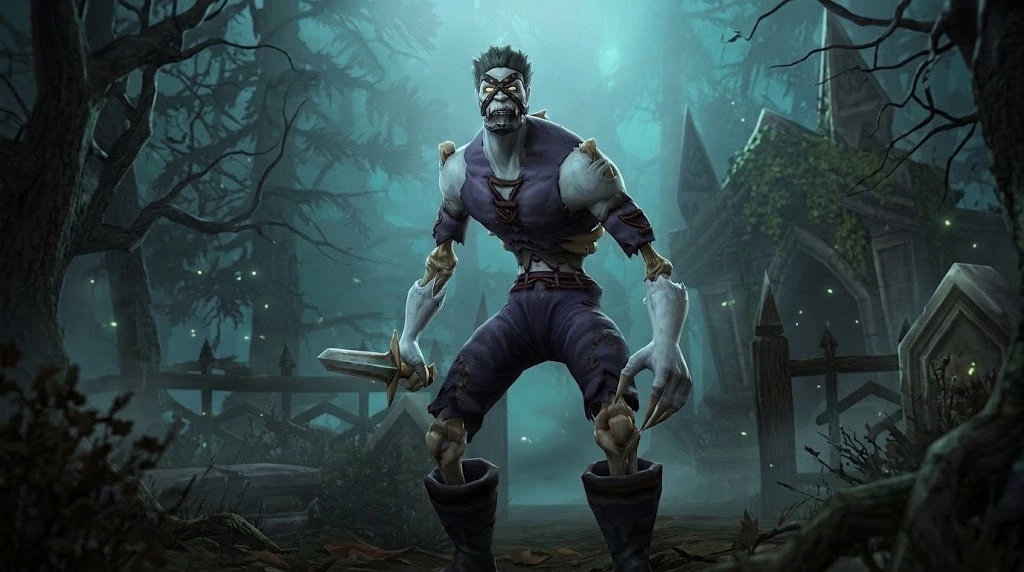
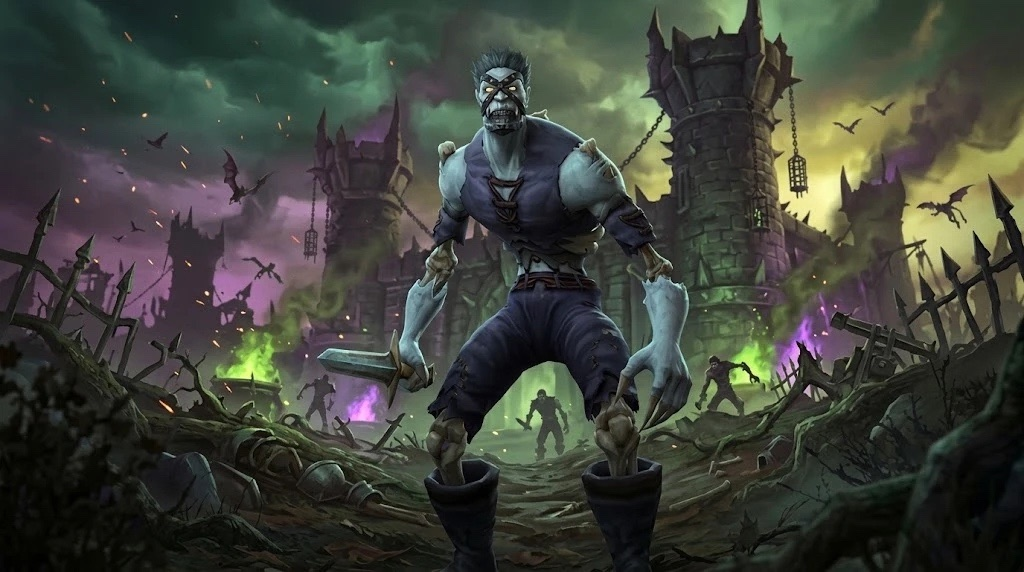
Art set kompletan: Pero, nove slike Nikse i Žuge; art u heroju, na karticama, avatarima i og slici
Pero: portret, široki kadar i fokus (nema više zamjenskog grba). Niksa i Žuga iz novih art slika.
Hero: iza naslova se polako izmjenjuju tamni, zamućeni široki kadrovi (<lik>-hero.jpg, ~35 KB).
Ekipa: hover na kartici otvori široki kadar uz parallax (učita se tek na prvi hover).
Avatari iz art slika uz imena u Prvoj noći i u tablici Tko kome što.
og.jpg: pet likova i naziv (umjesto og.png); Kino: poster za Intro iz Perinog kadra, cinematic 0:56.

diff --git a/index.html b/index.html
@@ -13,12 +13,13 @@
 <meta property="og:title" content="Zabranjeno pullanje">
 <meta property="og:description" content="Guild Zabranjeno pullanje: pet frendova iz Zaprešića kreće u World of Warcraft: Forever za Hordu, a ovdje odbrojava do launcha 4. 11.">
 <meta property="og:url" content="https://zabranjeno-pullanje.netlify.app/">
-<meta property="og:image" content="https://zabranjeno-pullanje.netlify.app/assets/og.png">
+<meta property="og:image" content="https://zabranjeno-pullanje.netlify.app/assets/og.jpg">
 <meta property="og:image:width" content="1200">
 <meta property="og:image:height" content="630">
+<meta property="og:image:alt" content="Pero, Niksa, Karkens, Žuga i Dex, likovi guilda Zabranjeno pullanje">
 <meta name="twitter:card" content="summary_large_image">
 <meta name="twitter:title" content="Zabranjeno pullanje">
-<meta name="twitter:image" content="https://zabranjeno-pullanje.netlify.app/assets/og.png">
+<meta name="twitter:image" content="https://zabranjeno-pullanje.netlify.app/assets/og.jpg">
 <link rel="preconnect" href="https://fonts.googleapis.com">
 <link rel="preconnect" href="https://fonts.gstatic.com" crossorigin>
 <link rel="stylesheet" href="https://fonts.googleapis.com/css2?family=Archivo:wght@400;500;600&family=Big+Shoulders+Display:wght@600;800;900&family=Martian+Mono:wght@400;500&family=Cinzel:wght@700;900&display=swap">
@@ -212,6 +213,19 @@ section[id] { scroll-margin-top: 84px; }
   transform: translateX(-50%); pointer-events: none;
   background: radial-gradient(closest-side, rgba(193, 18, 31, .22), rgba(193, 18, 31, 0) 70%);
 }
+/* iza naslova: tamni, zamućeni široki kadrovi ekipe (male -hero.jpg verzije), polako se izmjenjuju */
+.hero-art { position: absolute; inset: 0; pointer-events: none; overflow: hidden; }
+.hero-art img {
+  position: absolute; inset: -4%; width: 108%; height: 108%; object-fit: cover; object-position: var(--fx, 50%) var(--fy, 30%);
+  opacity: 0; transform: scale(1.06); transition: opacity 2.4s ease;
+}
+.hero-art img.on { opacity: .42; animation: heroKb 10s linear both; }
+.hero-art::after {
+  content: ""; position: absolute; inset: 0;
+  background: linear-gradient(90deg, rgba(12, 9, 8, .78) 0, rgba(12, 9, 8, .25) 55%, rgba(12, 9, 8, .6) 100%), linear-gradient(180deg, rgba(12, 9, 8, .45) 0, transparent 30%, transparent 62%, var(--night) 100%);
+}
+@keyframes heroKb { from { transform: scale(1.06) translateX(-1.2%); } to { transform: scale(1.12) translateX(1.2%); } }
+@media (prefers-reduced-motion: reduce) { .hero-art img, .hero-art img.on { animation: none; transition: none; } }
 .stage { grid-area: logo; position: relative; height: 66vw; cursor: pointer; }
 .stage canvas { position: absolute; inset: 0; width: 100%; height: 100%; display: block; touch-action: pan-y; opacity: 0; transition: opacity .9s var(--ease); }
 .stage.gl-on canvas { opacity: 1; }
@@ -1018,6 +1032,19 @@ a.sl:hover b { text-decoration: underline; }
   animation: magla 26s linear infinite alternate;
 }
 @keyframes magla { from { background-position: 0% 0; } to { background-position: 100% 0; } }
+/* hover na kartici: portret se "otvori" u široki kadar, s parallaxom prema mišu */
+.portrait .p-wide { display: none; }
+@media (hover: hover) and (pointer: fine) {
+  .portrait .p-wide {
+    display: block; position: absolute; inset: -6%; width: 112%; height: 112%; object-fit: cover; object-position: var(--fx, 50%) var(--fy, 30%);
+    opacity: 0; filter: saturate(.85) contrast(1.06) brightness(.9);
+    transform: translate(calc((50% - var(--mx, 50%)) * .08), calc((50% - var(--my, 50%)) * .05)) scale(1.18);
+    transition: opacity .45s var(--ease), transform .7s var(--ease);
+  }
+  .plate.live .portrait .p-wide[src] { opacity: 1; transform: translate(calc((50% - var(--mx, 50%)) * .08), calc((50% - var(--my, 50%)) * .05)) scale(1); }
+  .pl { transition: transform .5s var(--ease), opacity .45s; }
+  .plate.live .portrait:has(.p-wide[src]) .pl { opacity: 0; }
+}
 .ph svg { animation: grb 4.2s ease-in-out infinite; }
 @keyframes grb { 0%, 100% { opacity: .75; } 50% { opacity: 1; filter: drop-shadow(0 0 26px color-mix(in srgb, var(--c) 70%, transparent)); } }
 .portrait::after {
@@ -1323,6 +1350,12 @@ footer .wrap {
 }
 footer .cry { font: 900 1.6rem/1 var(--f-display); text-transform: uppercase; color: var(--blood); }
 footer .f-kino { color: var(--ember); text-decoration: none; }
+/* mali avatar igrača (glava iz širokog kadra) uz ime u tekstu */
+.ava {
+  display: inline-block; width: 22px; height: 22px; flex: none; margin-right: 7px; vertical-align: -6px; border-radius: 50%;
+  background-size: auto 650%; background-repeat: no-repeat; box-shadow: 0 0 0 1.5px var(--c), 0 0 10px color-mix(in srgb, var(--c) 40%, transparent);
+}
+.tko { white-space: nowrap; }
 footer .f-kino:hover { color: var(--bone); }
 
 /* ---------- Kino: kartice videa (poster, naslov, trajanje, opis) i overlay preko cijelog ekrana ---------- */
@@ -2145,6 +2178,7 @@ span[data-tt], b[data-tt], th[data-tt] { text-decoration: underline dotted rgba(
 
 <main>
   <section class="hero" aria-labelledby="naslov">
+    <div class="hero-art" id="heroArt" aria-hidden="true"></div>
     <div class="wrap hero-grid">
       <div class="hero-main">
         <p class="eyebrow mono">Guild · Zaprešić Horde · 5 likova · World of Warcraft: Forever</p>
@@ -2628,6 +2662,20 @@ span[data-tt], b[data-tt], th[data-tt] { text-decoration: underline dotted rgba(
     Paladin: '<svg viewBox="0 0 64 64" aria-hidden="true"><g fill="none" stroke="currentColor" stroke-width="2.4" stroke-linejoin="round"><path d="M16 8h32v14H16z"/><path d="M32 22v36M26 58h12M24 8V4h16v4"/><path d="M8 15h8M48 15h8"/></g></svg>'
   };
   var esc = function (s) { return String(s).replace(/[&<>"]/g, function (c) { return { "&": "&amp;", "<": "&lt;", ">": "&gt;", '"': "&quot;" }[c]; }); };
+  // glava na širokom kadru (data.js fokus), u postocima
+  function fokus(p) { return p.fokus || [50, 30]; }
+  // mali avatar: izrez glave iz širokog kadra (intro ga ionako učita), prsten u boji klase
+  var POIGRACU = {};
+  (D.igraci || []).forEach(function (p) { POIGRACU[p.igrac] = p; });
+  function avatar(p) {
+    if (!p || !p.siroka) return "";
+    var f = fokus(p), W = 1024 * .25, H = 572 * .25, x = (f[0] / 100 * W - 11) / (W - 22) * 100, y = (f[1] / 100 * H - 11) / (H - 22) * 100;
+    return '<i class="ava" aria-hidden="true" style="--c:' + (BOJE[p.klasa] || "#ece2d4") + ";background-image:url(" + esc(p.siroka) + ");background-position:" + x.toFixed(1) + "% " + y.toFixed(1) + '%"></i>';
+  }
+  // u tekstu svako ime igrača dobije avatar
+  function sAvatarima(tekst) {
+    return esc(tekst).replace(/[A-Za-zČĆŽŠĐčćžšđ]+/g, function (w) { var p = POIGRACU[w]; return p ? '<span class="tko">' + avatar(p) + w + "</span>" : w; });
+  }
   window.zpIntro = { grb: GRB }; // intro koristi iste grbove klasa dok nema portreta
 
   /* ---------- tooltip: jedna komponenta za iteme, profesije, bosseve i dungeone ---------- */
@@ -3027,6 +3075,8 @@ span[data-tt], b[data-tt], th[data-tt] { text-decoration: underline dotted rgba(
       : '<div class="ph">' + (GRB[p.klasa] || GRB.Warrior) + '<span class="mono">čeka screenshot</span></div>';
     // u profilu je cijeli lik vidljiv, a prazan rub popuni zamućena ista slika
     if (veliki && p.foto && !sir) h = '<img class="pbg" src="' + esc(p.foto) + '" alt="" aria-hidden="true">' + h;
+    // na kartici: široki kadar za hover (učita se tek na prvi prelazak mišem)
+    if (!veliki && p.siroka) h += '<img class="p-wide" data-src="' + esc(p.siroka) + '" alt="" aria-hidden="true" style="--fx:' + fokus(p)[0] + "%;--fy:" + fokus(p)[1] + '%">';
     return '<div class="portrait' + (sir ? " siroki" : "") + '">' + h + '<div class="fog"></div>' +
       '<div class="p-top mono"><span class="role">' + IKONE[r] + esc(p.uloga) + "</span><span>" + esc(p.klasa) + "</span></div>" +
       '<div class="p-name-wrap"><h3 class="p-name">' + p.lik.split(" ").map(function (w) { return "<span>" + esc(w) + "</span>"; }).join("") + "</h3></div>" +
@@ -3089,7 +3139,11 @@ span[data-tt], b[data-tt], th[data-tt] { text-decoration: underline dotted rgba(
       inner.style.setProperty("--my", (y * 100).toFixed(1) + "%");
     }
     function leave() { el.classList.remove("live"); el.style.setProperty("--rx", "0deg"); el.style.setProperty("--ry", "0deg"); }
-    el.addEventListener("pointerenter", function (e) { el.classList.add("live"); move(e); });
+    var wide = el.querySelector(".p-wide");
+    el.addEventListener("pointerenter", function (e) {
+      el.classList.add("live"); move(e);
+      if (wide && !wide.src && e.pointerType === "mouse") wide.src = wide.dataset.src;
+    });
     el.addEventListener("pointermove", move);
     el.addEventListener("pointerdown", function (e) { el.classList.add("live"); move(e); });
     el.addEventListener("pointerleave", leave);
@@ -3997,6 +4051,31 @@ span[data-tt], b[data-tt], th[data-tt] { text-decoration: underline dotted rgba(
     // stranica u iframeu javlja kraj (prirodni kraj ili njezin gumb Zatvori)
     window.addEventListener("message", function (e) { if (e.source === fr.contentWindow && e.data && e.data.zp === "kraj") zatvori(); });
   })();
+
+  /* ---------- hero: iza naslova se polako izmjenjuju zamućeni široki kadrovi ekipe (assets/likovi/<lik>-hero.jpg) ---------- */
+  (function () {
+    var box = $("heroArt"), L = (D.igraci || []).filter(function (p) { return p.siroka; });
+    if (!box || !L.length) return;
+    var slike = L.map(function (p) {
+      var im = document.createElement("img"), f = fokus(p);
+      im.alt = ""; im.decoding = "async";
+      im.dataset.src = p.siroka.replace(/-wide\.jpg$/, "-hero.jpg");
+      im.style.setProperty("--fx", f[0] + "%"); im.style.setProperty("--fy", f[1] + "%");
+      box.appendChild(im);
+      return im;
+    });
+    var i = Math.floor(Math.random() * slike.length);
+    function ucitaj(im) { if (!im.src) im.src = im.dataset.src; }
+    function pokazi() {
+      slike.forEach(function (im, j) { im.classList.toggle("on", j === i); });
+      // sljedeća se učita dok ova stoji
+      ucitaj(slike[(i + 1) % slike.length]);
+    }
+    slike[i].addEventListener("load", pokazi, { once: true });
+    ucitaj(slike[i]);
+    if (reduce) return;
+    setInterval(function () { if (document.hidden) return; i = (i + 1) % slike.length; pokazi(); }, 8000);
+  })();
   document.addEventListener("keydown", function (e) {
     if (e.key !== "Enter") return;
     var dg = e.target.closest && e.target.closest("[data-dungeon]");
@@ -4026,7 +4105,7 @@ span[data-tt], b[data-tt], th[data-tt] { text-decoration: underline dotted rgba(
     igraci.forEach(function (p) { var z = START[p.rasa] || p.rasa; (grupe[z] = grupe[z] || []).push(p); });
     var startHtml = '<div class="starts">' + Object.keys(grupe).map(function (z) {
       return '<div><span class="z mono">' + esc(z) + '</span><div class="who">' + grupe[z].map(function (p) {
-        return '<span style="--c:' + BOJE[p.klasa] + '">' + esc(p.igrac) + "</span>";
+        return '<span style="--c:' + BOJE[p.klasa] + '">' + avatar(p) + esc(p.igrac) + "</span>";
       }).join("") + "</div></div>";
     }).join("") + "</div>";
     $("route").innerHTML = (N.koraci || []).map(function (k, i) {
@@ -4203,7 +4282,7 @@ span[data-tt], b[data-tt], th[data-tt] { text-decoration: underline dotted rgba(
       return '<div class="' + (sad ? "sad" : "") + '"><span class="mono">lvl ' + (d.od === d.do ? d.od : d.od + "–" + d.do) + "</span><b>" + d.min + "–" + d.max + " g</b><span class=\"mono\">dnevno</span></div>";
     }).join("");
     $("duguje").innerHTML = E.duguje.map(function (d) {
-      return "<tr><td>" + esc(d.tko) + "</td><td>" + esc(d.kome) + "</td><td>" + esc(d.sto) + "</td><td>" + esc(d.kad) + "</td></tr>";
+      return "<tr><td>" + sAvatarima(d.tko) + "</td><td>" + sAvatarima(d.kome) + "</td><td>" + esc(d.sto) + "</td><td>" + esc(d.kad) + "</td></tr>";
     }).join("");
     $("ahPlan").innerHTML = E.prodaja.map(function (a) { return "<li><b>" + esc(a.faza) + "</b><span>" + esc(a.tekst) + "</span></li>"; }).join("");
     var b = $("ekoVise"), det = $("ekoDet");

diff --git a/data.js b/data.js
@@ -42,8 +42,8 @@ window.HORDE = {
   // { id (jedinstven), naslov, opis (jedna rečenica), trajanje ("m:ss"), poster (16:9, assets/kino/), url }
   // url se otvara u overlayu preko cijelog ekrana (stranica javi kraj porukom { zp: "kraj" }); bez url-a pušta intro weba
   kino: [
-    { id: "zapresic", naslov: "Zaprešić → Azeroth", opis: "Noć u Zaprešiću, pet upaljenih ekrana i put u Azeroth.", trajanje: "0:25", poster: "assets/kino/zapresic.jpg", url: "zapresic.html?odmah&embed" },
-    { id: "intro", naslov: "Intro", opis: "Žeravica, grb, kadrovi iz Forevera i ekipa jedan po jedan.", trajanje: "0:34", poster: "assets/kino/intro.jpg", url: null }
+    { id: "zapresic", naslov: "Zaprešić → Azeroth", opis: "Noć u Zaprešiću, pet upaljenih ekrana i put u Azeroth.", trajanje: "0:56", poster: "assets/kino/zapresic.jpg", url: "zapresic.html?odmah&embed" },
+    { id: "intro", naslov: "Intro", opis: "Žeravica, grb, kadrovi iz Forevera i ekipa jedan po jedan, svatko u svom kraju Azerotha.", trajanje: "0:34", poster: "assets/kino/intro.jpg", url: null }
   ],
 
   // achievementi: novi (koje posjetitelj još nije vidio) iskaču kao tost dolje u sredini, jedan po jedan
@@ -63,11 +63,13 @@ window.HORDE = {
   //   oprema i ciljevi: { slot, ime, kvaliteta: poor|common|uncommon|rare|epic|legendary, ikona (Wowhead ikona, npr. "inv_axe_09"), wowhead (ID itema), izvor }
   // oci: položaji očiju na fotki u postocima [[x, y], [x, y]] za sjaj (samo Undead), inače izostavi
   // siroka: široki kadar (16:9) za zaglavlje profila u ladici i veliku sliku u introu; ociSiroka: oči na njemu, kao oci
-  // fokus: [x, y] glave na širokom kadru u postocima; intro po njemu reže sliku i vodi Ken Burns
+  // fokus: [x, y] glave na širokom kadru u postocima; intro po njemu reže sliku i vodi Ken Burns, a avatari izrezuju glavu
+  //   uz siroka "<lik>-wide.jpg" ide i zamućena "<lik>-hero.jpg" (960 px) za pozadinu heroja
   // portret (foto) je 720×960 izrez iz istog kadra; oci i ociSiroka već uračunavaju 4 % povećanja slike na kartici
   // imena: gdje se govori o ljudima piše igrac (Pero, Niksa, Karkens, Žuga, Dex); lik samo kao naslov kartice/profila i u kontekstu igre
   igraci: [
-    { igrac: "Pero",    lik: "Melee Kitic",      klasa: "Warrior", rasa: "Orc",    uloga: "Melee DPS",  level: 0, foto: null,
+    { igrac: "Pero",    lik: "Melee Kitic",      klasa: "Warrior", rasa: "Orc",    uloga: "Melee DPS",  level: 0, foto: "assets/likovi/melee-kitic.jpg",
+      siroka: "assets/likovi/melee-kitic-wide.jpg", fokus: [50.3, 16.6],
       gold: 0,
       zadaci: [
         { naziv: "Mining i Skinning naučiti čim izađeš iz Valley of Trials", od: 1, do: 10, gotovo: false },
@@ -96,7 +98,7 @@ window.HORDE = {
         biljeske: "Kao DPS ne pulla. Kad Dex nije tu, Warrior je rezervni tank."
       } },
     { igrac: "Niksa",   lik: "Saman Saulic",    klasa: "Shaman",  rasa: "Orc",    uloga: "Healer",     level: 0, foto: "assets/likovi/saman-saulic.jpg",
-      siroka: "assets/likovi/saman-saulic-wide.jpg", fokus: [50.3, 19.2],
+      siroka: "assets/likovi/saman-saulic-wide.jpg", fokus: [50.3, 18],
       gold: 0,
       zadaci: [
         { naziv: "Herbalism i Skinning; Earth totem quest na 4", od: 1, do: 10, gotovo: false },
